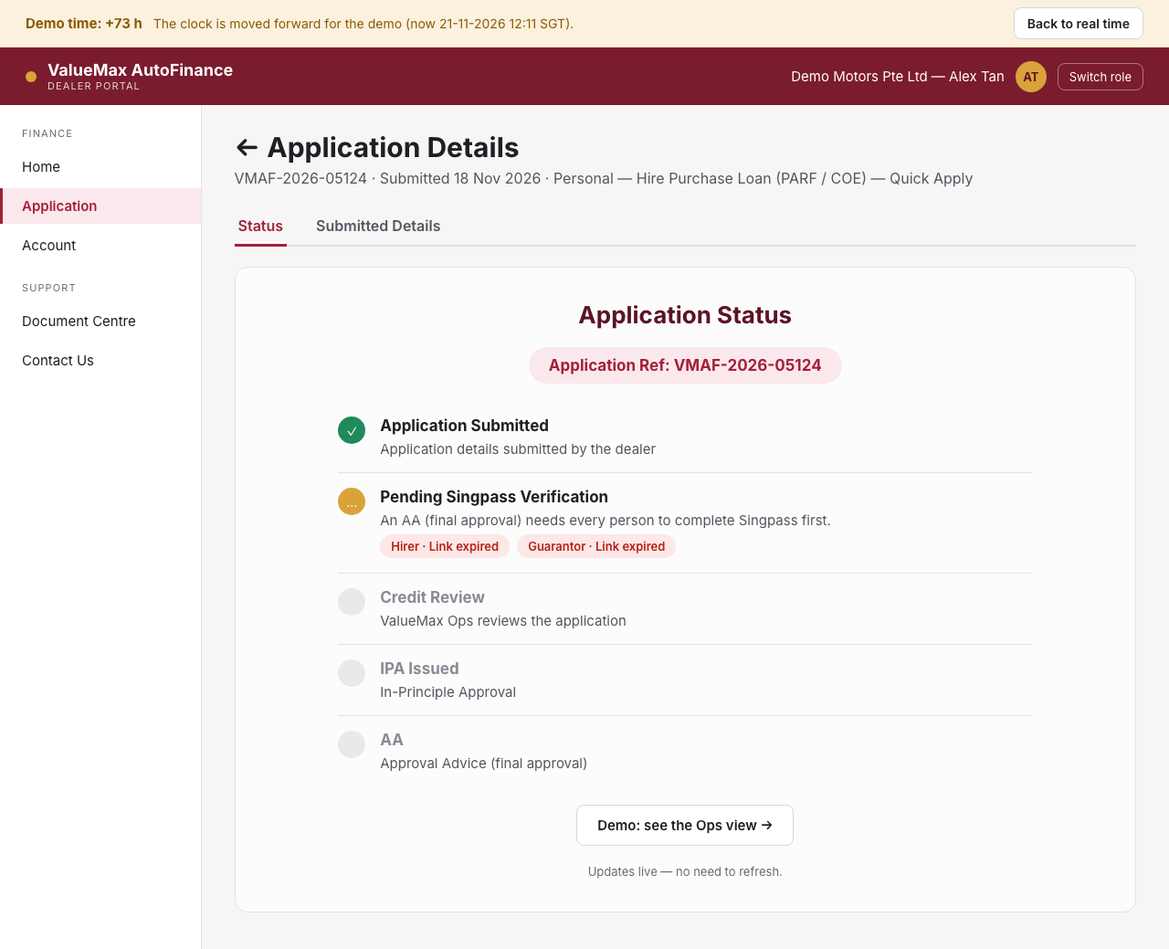
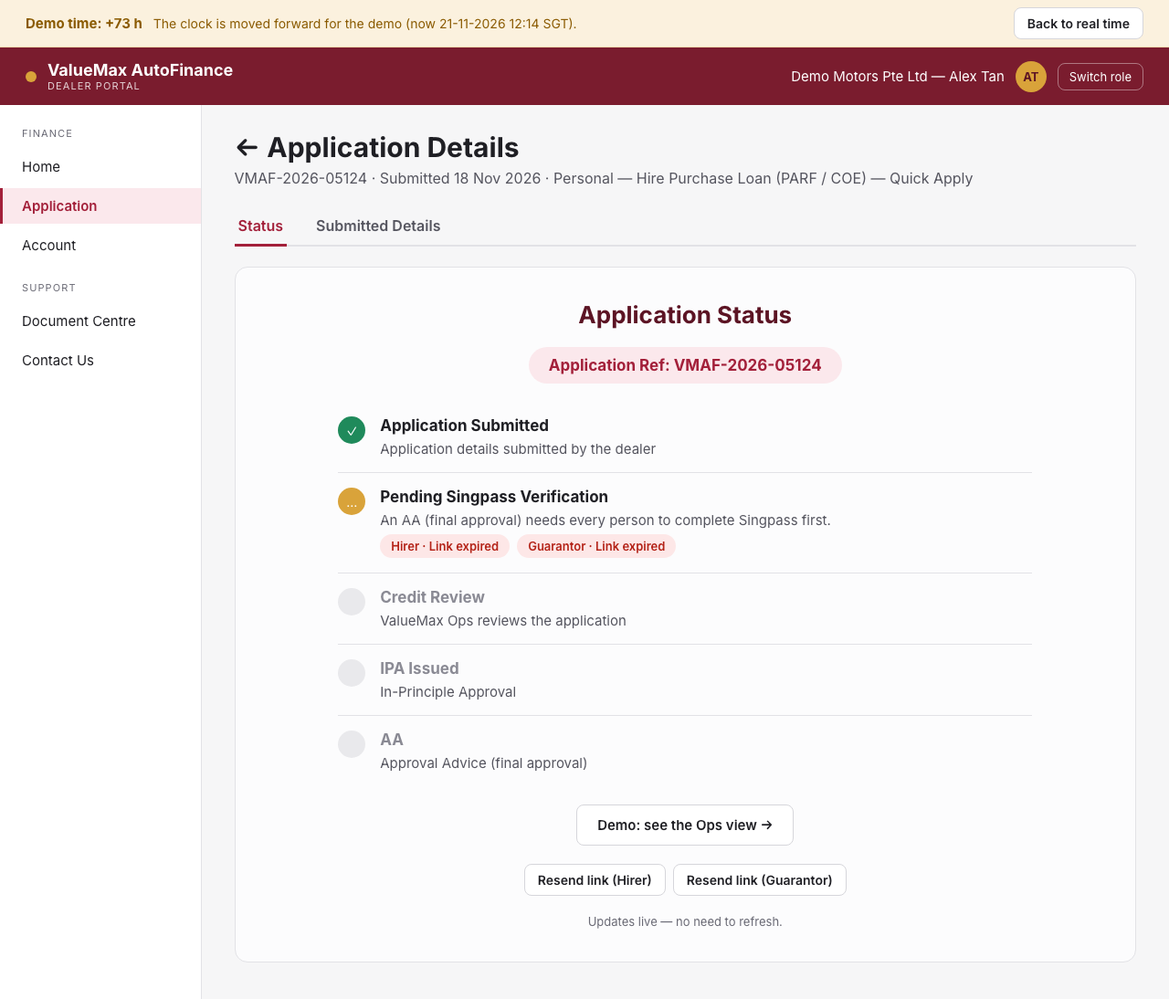
feat: step 7 — Playwright e2e of the main demo script, README for a new machine
- tests/e2e/main-flow.spec.ts (D-36): dealer submits, both links opened from the
  outbox on a phone, consent with the right personas, dealer screen updates live
  without reload, AA unlocks and is issued; playwright.config.ts starts its own
  server (:3100, own DATA_FILE, throw-away key); npm run test:e2e
- DATA_FILE setting (default data/db.json)
- Dealer status: "Resend link" for the submitting agent (D-04)
- README rewritten: new-machine setup, key generation, Chromium install behind a
  company CA, configuration, reset, phone access, 7 demo scripts (do / see /
  say), what is simulated, connecting the real gateway (B1.1, B2.2, B1.9,
  staging person API port 60201)
- Screenshots regenerated

diff --git a/tests/e2e/main-flow.spec.ts b/tests/e2e/main-flow.spec.ts
@@ -1,0 +1,81 @@
+// The main demo script (D-36): the dealer submits; both links are opened from the outbox on a phone; each person
+// consents with the right persona; the dealer and Ops screens change by themselves; the AA unlocks and is issued.
+import { expect, test } from "@playwright/test";
+import type { Page } from "@playwright/test";
+
+interface Message { channel: string; applicationRef: string; partyId: string; body: string }
+interface Party { id: string; role: string }
+
+async function signIn(page: Page, who: RegExp): Promise<void> {
+  await page.goto("/login");
+  await page.getByRole("button", { name: who }).click();
+}
+
+test("main demo: submit → open both links from the outbox → consent → statuses update live → AA unlocks", async ({ browser }) => {
+  // ---- dealer (laptop) ----
+  const dealer = await (await browser.newContext()).newPage();
+  await signIn(dealer, /Alex Tan/);
+  await dealer.request.post("/api/demo/reset");
+  await dealer.goto("/dealer/apply");
+  await dealer.getByRole("button", { name: "Fill sample (test personas)" }).click();
+  await dealer.locator('[data-f="hirer.email"]').fill("hirer@example.com");
+  await dealer.locator('[data-f="guarantor.email"]').fill("guarantor@example.com");
+  await dealer.getByRole("button", { name: /Next: Documents/ }).click();
+  const send = dealer.getByRole("button", { name: /Send Singpass Request/ });
+  await expect(send).toBeDisabled();
+  await dealer.locator("#c1").check();
+  await dealer.locator("#c2").check();
+  await send.click();
+  await expect(dealer.getByRole("heading", { name: "Interest Received" })).toBeVisible();
+  const ref = new URL(dealer.url()).pathname.split("/").pop()!;
+  await dealer.getByRole("link", { name: "View Application Status" }).click();
+  await expect(dealer.getByText("Hirer · Pending")).toBeVisible();
+  await dealer.evaluate(() => ((window as unknown as { noReload: boolean }).noReload = true));
+
+  // ---- Ops (second laptop tab): AA locked while Singpass is pending ----
+  const ops = await (await browser.newContext()).newPage();
+  await signIn(ops, /Priya Nair/);
+  await ops.goto(`/ops/applications/${ref}`);
+  await ops.selectOption("#newstatus", "AA");
+  await expect(ops.getByText("Cannot issue AA yet")).toBeVisible();
+  await expect(ops.locator("#apply")).toBeDisabled();
+
+  // ---- the two links, from the outbox ----
+  const parties = ((await (await dealer.request.get(`/api/applications/${ref}`)).json()) as { parties: Party[] }).parties;
+  const outbox = (await (await dealer.request.get("/api/demo/outbox")).json()) as Message[];
+  const linkOf = (role: string) => {
+    const party = parties.find((p) => p.role === role)!;
+    const email = outbox.find((m) => m.channel === "email" && m.applicationRef === ref && m.partyId === party.id)!;
+    return /https?:\/\/\S+/.exec(email.body)![0];
+  };
+  const sms = outbox.filter((m) => m.channel === "sms" && m.applicationRef === ref);
+  expect(sms).toHaveLength(2);
+  for (const m of sms) expect(m.body).not.toMatch(/https?:\/\//);
+
+  // ---- each person on a phone ----
+  const phone = await (await browser.newContext({ viewport: { width: 390, height: 844 }, isMobile: true })).newPage();
+  for (const [role, persona, chip] of [
+    ["hirer", "F4440488P", "Hirer · Fulfilled"],
+    ["guarantor", "G4440425M", "Guarantor · Fulfilled"],
+  ] as const) {
+    await phone.goto(linkOf(role));
+    await expect(phone.getByText("Link valid")).toBeVisible();
+    await phone.getByRole("link", { name: /Continue to Singpass/ }).click();
+    await expect(phone.getByText("SIMULATED GATEWAY")).toBeVisible();
+    await phone.getByRole("button", { name: "Retrieve Myinfo with Singpass" }).click();
+    await phone.locator(`[data-nric="${persona}"]`).click();
+    await phone.getByRole("button", { name: /I agree/ }).click();
+    await phone.getByRole("button", { name: "Submit Application" }).click();
+    await expect(phone.getByRole("heading", { name: "Details shared" })).toBeVisible();
+
+    // the dealer's screen changes by itself (auto-verify job + SSE), no reload
+    await expect(dealer.getByText(chip)).toBeVisible({ timeout: 10_000 });
+    expect(await dealer.evaluate(() => (window as unknown as { noReload?: boolean }).noReload)).toBe(true);
+  }
+
+  // ---- Ops: the AA unlocks by itself and is issued ----
+  await expect(ops.getByText("Ready to issue AA")).toBeVisible({ timeout: 10_000 });
+  await ops.locator("#apply").click();
+  await expect(ops.getByText(/AA issued by Priya Nair/)).toBeVisible();
+  await expect(dealer.getByText(/Approval Advice issued/)).toBeVisible({ timeout: 10_000 });
+});

diff --git a/public/app.js b/public/app.js
@@ -529,10 +529,14 @@ async function dealerStatus(ref) {
           ${app.ipaAt ? `<button class="btn primary" type="button" onclick="this.textContent='IPA notice is out of scope in this demo'">View IPA Notice</button>` : ""}
           <button class="btn" type="button" data-shortcut="ops-view">Demo: see the Ops view →</button>
         </div>
+        ${app.createdById === state.user.id && app.stage !== "AA" && app.parties.some((p) => ["Pending", "Expired", "NRIC mismatch", "Queued"].includes(p.status))
+          ? `<div class="row center" style="gap:8px">${app.parties.filter((p) => p.status !== "Fulfilled").map((p) => `<button class="btn sm" type="button" data-resend="${esc(p.id)}" data-label="${esc(p.label)}">Resend link (${esc(p.label)})</button>`).join("")}</div>`
+          : ""}
         <span class="small muted">Updates live — no need to refresh.</span>
       </section>`);
     bindCommon();
     bindShortcuts();
+    bindResend(ref); // D-04: the dealer agent who submitted may resend, with a reason
     prev = sig;
   };
   await load();

diff --git a/playwright.config.ts b/playwright.config.ts
@@ -1,0 +1,31 @@
+// End-to-end test of the main demo script (D-36). Starts its own server on port 3100 with its own data file,
+// a throw-away encryption key and a fast auto-verify job; never touches data/db.json or .env.
+import { randomBytes } from "node:crypto";
+import { defineConfig, devices } from "@playwright/test";
+
+const PORT = 3100;
+const BASE = `http://127.0.0.1:${PORT}`;
+
+export default defineConfig({
+  testDir: "tests/e2e",
+  timeout: 90_000,
+  fullyParallel: false,
+  workers: 1,
+  reporter: [["list"]],
+  use: { baseURL: BASE, trace: "retain-on-failure" },
+  projects: [{ name: "chromium", use: { ...devices["Desktop Chrome"] } }],
+  webServer: {
+    command: "node server/index.ts",
+    url: `${BASE}/api/config`,
+    reuseExistingServer: false,
+    timeout: 30_000,
+    env: {
+      PORT: String(PORT),
+      PUBLIC_BASE_URL: BASE,
+      MYINFO_ENCRYPTION_KEY: randomBytes(32).toString("hex"),
+      POLL_INTERVAL_MS: "500",
+      DATA_FILE: "test-results/e2e-db.json",
+      SMTP_HOST: "",
+    },
+  },
+});

diff --git a/server/index.ts b/server/index.ts
@@ -26,7 +26,7 @@ const config = loadConfig(process.env, { publicBaseUrl: `http://${lanAddress() ?
 const rt = createRuntime({
   config,
   clock: new AdjustableClock(),
-  dbFile: join(resolve(import.meta.dirname, ".."), "data", "db.json"),
+  dbFile: process.env.DATA_FILE || join(resolve(import.meta.dirname, ".."), "data", "db.json"),
   key,
   email: createEmailSender(process.env),
   smtpConfigured: Boolean(process.env.SMTP_HOST),

diff --git a/README.md b/README.md
@@ -1,82 +1,202 @@
 # ValueMax AutoFinance — Singpass Myinfo Auto Verify (demo)
 
-Demo of the Dealer Portal flow from `docs/requirements/singpass-demo-brief.md`: the dealer submits an application on
-the laptop, the hirer and guarantor each get a link by email, log in and consent to share Myinfo on their phone through
-a **simulated ValueMax Myinfo gateway** (labelled "SIMULATED"), and the dealer and Ops screens switch to **Fulfilled**
-live (Server-Sent Events, no refresh).
+Presale demo of the Dealer Portal "auto verify" flow for ValueMax AutoFinance. The dealer submits an application on a
+laptop; the hirer and up to two guarantors each get their own link by email (plus an SMS notice); each person opens the
+link on their phone, goes through a **simulated** ValueMax Myinfo gateway (Singpass login, consent, review) and shares
+their data; AutoFinance picks the data up by **polling** the gateway, checks the NRIC, and the dealer and Ops screens
+switch to **Fulfilled** by themselves. The AA is locked on the server until every person is Fulfilled.
 
-The real ValueMax gateway (`myinfo-stg.valuemax.com.sg`) is not wired: its API spec (GetToken, GetLinkId,
-person/autofin/{LinkId}) is still pending (Q&A B1.1). `server/gateway/valuemax.ts` is a stub with TODOs.
+Requirements: `docs/requirements/singpass-demo-brief.md`; decisions: `docs/requirements/decisions.md` (D-01 … D-51);
+gap report and plan: `docs/claude-code-demo/GAP_REPORT.md`; screenshots: `docs/claude-code-demo/screens/`.
 
-> Work in progress: everything runs end to end, but the UI is not yet pixel-matched to `docs/claude-code-demo/design/`.
+## 1. Run it on a new machine
 
-## Run
-
-Requires Node.js ≥ 22.18 (runs the TypeScript directly, no build step).
+Requires **Node.js ≥ 22.18** (the TypeScript runs directly, no build step) and npm. Nothing else for the demo itself.
 
 ```bash
-npm install
-npm run dev          # creates .env on first run (with a fresh MYINFO_ENCRYPTION_KEY), then starts on :3000
+git clone <repo-url> singpass-demo && cd singpass-demo
+git checkout singpass-2
+npm ci
+cp .env.example .env
+# put a fresh 256-bit key (64 hex characters) into MYINFO_ENCRYPTION_KEY in .env:
+node -e "console.log(require('crypto').randomBytes(32).toString('hex'))"
+#   (or: openssl rand -hex 32)
+npm start                     # or: npm run dev (restarts on code changes)
 ```
 
-- Laptop: http://localhost:3000. Pick **Alex Tan (dealer)** or **Priya Nair (Ops)** — "Switch role" in the header.
-- Demo Control: http://localhost:3000/demo (reset data, sample applications, expire a link, outbox, QR codes).
-- Tests: `npm test` · lint: `npm run lint` · type-check: `npm run typecheck`.
+Shortcut: `npm run setup` creates `.env` from `.env.example` with a new key if `.env` does not exist yet; `npm start`
+and `npm run dev` run it first. The server refuses to start without a valid key (D-03) and says why.
 
-### Email
+Then open:
 
-| Option | `.env` |
+| URL | What |
 | --- | --- |
-| No SMTP (default) | leave `SMTP_HOST` empty: links are printed in the server log and listed in Demo Control → Outbox |
-| Mailpit (local inbox) | `docker compose up -d mailpit`, then `SMTP_HOST=localhost`, `SMTP_PORT=1025`; inbox at http://localhost:8025 |
-| Real mailbox (Gmail) | `SMTP_HOST=smtp.gmail.com`, `SMTP_PORT=465`, `SMTP_SECURE=true`, `SMTP_USER=you@gmail.com`, `SMTP_PASS=<app password>` |
+| http://localhost:3000 | sign in as **Alex Tan — Demo Motors** (dealer) or **Priya Nair — VMAF Ops**; "Switch role" in the header |
+| http://localhost:3000/demo | **Demo Control** (presenter): reset, sample applications, gateway on/off, run job now, clock, outbox, gateway log |
+| printed at start-up | "Phone links" base URL — what the emails contain (see §4) |
 
-### Letting a phone open the link
+### Tests
 
-The link in the email uses `PUBLIC_BASE_URL`.
+```bash
+npm test             # service + HTTP tests (node:test)
+npm run lint         # ESLint
+npm run typecheck    # tsc --noEmit
+# end-to-end (Playwright, one test of the main demo script, D-36) — install Chromium once:
+npx playwright install chromium
+#   on a machine behind a company proxy with its own root CA ("unable to verify the first certificate"):
+NODE_OPTIONS=--use-system-ca npx playwright install chromium
+npm run test:e2e     # starts its own server on :3100 with its own data file; does not touch data/db.json or .env
+npm run screens      # regenerates docs/claude-code-demo/screens/*.png (needs Chromium too)
+```
 
-- **Same Wi-Fi**: leave it empty — the server prints the detected LAN address (`http://192.168.x.x:3000`).
-  Allow incoming connections for Node in the macOS firewall if asked.
-- **Tunnel** (any network): `cloudflared tunnel --url http://localhost:3000` (or `ngrok http 3000`), then set
-  `PUBLIC_BASE_URL=https://<the-tunnel-host>` in `.env` and restart.
-- Fallback: screen 3 ("Show QR of the link") and Demo Control show a QR code of each link.
+## 2. Configuration (`.env`)
 
-## Demo script (~5 minutes)
+| Variable | Default | Meaning |
+| --- | --- | --- |
+| `MYINFO_ENCRYPTION_KEY` | — (required) | AES-256-GCM key for stored Myinfo data, 64 hex characters (D-03) |
+| `PORT` | 3000 | listens on 0.0.0.0 so phones on the same network can reach it |
+| `PUBLIC_BASE_URL` | LAN address | base URL put in emails and used for the gateway pages; must be reachable from the phone |
+| `LINK_TTL_HOURS` | 72 | link validity, counted from the moment the link is sent (D-24) |
+| `POLL_INTERVAL_MS` | 2000 | how often the auto-verify job polls the gateway (D-01) |
+| `RESEND_LIMIT` / `RESEND_WINDOW_HOURS` | 3 / 24 | resends per person in a sliding window (D-39) |
+| `MYINFO_SHOW_REVIEW` | true | the simulated gateway shows the review screen before "Submit Application" (D-31) |
+| `DATA_FILE` | `data/db.json` | where the demo data is kept |
+| `SMTP_HOST`, `SMTP_PORT`, `SMTP_SECURE`, `SMTP_USER`, `SMTP_PASS`, `MAIL_FROM` | empty | real email; see below |
 
-1. Demo Control → **Reset all data**, then **Create sample applications** (fills the Ops list).
-2. Laptop, as **Alex Tan**: Quick Apply → **Fill sample (test personas)** → type the email address of the phone for
-   hirer and guarantor → Next → tick both confirmations → **Send Singpass Request**. Screen 3 shows the reference and
-   link expiry; open **View Application Status** and leave it on screen.
-3. Phone: open the email → **Verify with Singpass** → **Retrieve Myinfo with Singpass** → simulated Singpass: pick
-   **HENG SHI ZHENG (F4440488P)** → **I agree** → review tabs → **Submit Application** → "Details shared".
-   The laptop's hirer chip turns **Fulfilled** within a second.
-4. Second tab as **Priya Nair** (Ops): All Applications shows hirer Fulfilled, guarantor Pending. Open it:
-   Change Status → **Issue AA** shows "Cannot issue AA yet"; **Issue IPA** works while Singpass is pending.
-5. Guarantor link on the phone → persona **G4440425M** → I agree → Submit Application. Both Fulfilled → Issue AA is enabled.
-6. Error cases (Demo Control lists them):
-   - **NRIC mismatch**: log in with a different persona than the NRIC the dealer entered → red on Ops.
-   - **Cancel**: press **Cancel** on the consent screen.
-   - **Old link after Resend**: Ops → **Resend Email**, then open the previous link → "This link is no longer valid".
-   - **Expired link**: Demo Control → **Make link expired**, then open the link.
+**Email.** Without `SMTP_HOST` emails are not sent: each link is printed in the server log and listed in Demo Control →
+Outbox (enough for a demo on one laptop). Local inbox: `docker compose up -d mailpit`, then `SMTP_HOST=localhost`,
+`SMTP_PORT=1025`, inbox at http://localhost:8025. Real mailbox (Gmail): `SMTP_HOST=smtp.gmail.com`, `SMTP_PORT=465`,
+`SMTP_SECURE=true`, `SMTP_USER=you@gmail.com`, `SMTP_PASS=<app password>`, `MAIL_FROM=you@gmail.com`.
+SMS is never sent: the SMS notice ("we have emailed you…", no link) appears only in the outbox (D-13).
 
-Test personas: `F4440488P`, `F4440489M`, `G4440425M`, `G4440427W`, `G4440430W`,
-`G4440431T`, `G4440432Q`, `G4440433N`, `M5004553J`. Any other valid NRIC also logs in with generic test data.
+## 3. Reset the data
 
-## Structure
+Demo Control → **Reset all data** hard-deletes every application, link, Myinfo record, message and audit event, clears
+the simulated gateway and puts the clock back to real time (D-02). **Create sample applications** adds
+`VMAF-2026-05114` … `05119` (test personas only, D-29). Stopping the server and deleting `data/db.json` does the same
+as a reset.
+
+## 4. Let a phone open the links
+
+- **Same Wi-Fi:** leave `PUBLIC_BASE_URL` empty; the server prints the LAN address it uses (`http://192.168.x.x:3000`).
+  Allow incoming connections for Node if the macOS firewall asks.
+- **Any network (tunnel):** `cloudflared tunnel --url http://localhost:3000` (or `ngrok http 3000`), set
+  `PUBLIC_BASE_URL=https://<tunnel-host>` in `.env`, restart.
+- **Fallback:** Demo Control → Links → "QR (presenter only)" shows a QR of any link.
+
+## 5. Demo scripts
+
+Before each script: Demo Control → **Reset all data** → **Create sample applications**. Keep two laptop windows: the
+dealer (Alex Tan) and Ops (Priya Nair, private window). "Phone" = a real phone, or a narrow browser window opening the
+link from Demo Control → Outbox. Personas on the simulated Singpass login: `F4440488P` HENG SHI ZHENG (hirer of "Fill
+sample"), `G4440425M` RAJESH KUMAR (its guarantor) and 7 others.
+
+### 5.1 Happy path (~3 min)
+
+| Do | See | Say |
+| --- | --- | --- |
+| Dealer: Quick Apply → **Fill sample** → type the phone's email for hirer and guarantor → Next → tick both boxes → **Send Singpass Request** | "Interest Received", one link per person, expiry in 72 h | "Each person gets their own link, valid 72 hours; only one link per person is active." |
+| Dealer: **View Application Status** | tracker, both chips "Pending" | "The dealer can now leave this screen open." |
+| Phone: open the hirer's email (or Outbox link) → **Continue to Singpass** | AutoFinance first checks the link, then the grey "SIMULATED GATEWAY" pages | "The link opens our portal first: an old or expired link stops here." |
+| Phone: **Retrieve Myinfo with Singpass** → pick **HENG SHI ZHENG** → **I agree** → review tabs → **Submit Application** | "Details shared"; no redirect back | "Like the real ValueMax gateway, it does not send the customer back." |
+| Watch the dealer screen | Hirer chip turns **Fulfilled** within ~2 s, no refresh | "There is no webhook: AutoFinance polls the gateway every 2 seconds, checks the NRIC, stores the data encrypted, and pushes the change to the screens." |
+| Phone: guarantor link → **RAJESH KUMAR** → I agree → Submit | Guarantor **Fulfilled** | |
+| Ops: All Applications → View → Change Status → **Issue AA** → Apply | "Ready to issue AA", then "Approved — AA"; the dealer tracker shows AA | "The AA is locked on the server until everyone is Fulfilled." |
+
+### 5.2 IPA before AA
+
+| Do | See | Say |
+| --- | --- | --- |
+| Submit an application (as in 5.1), nobody verifies yet. Ops → View → **Issue IPA** → Apply | "Approved — IPA" | "An IPA can be issued any time after submission." |
+| Ops: choose **Issue AA** | red box "Cannot issue AA yet ✗ Hirer Singpass pending ✗ Guarantor …", Apply disabled | "The reason comes from the server's own check; an AA attempt that bypasses the screen is refused and audited." |
+| Verify both people (5.1) | the box turns "Ready to issue AA" by itself → Apply | |
+
+### 5.3 Wrong person (NRIC mismatch)
+
+| Do | See | Say |
+| --- | --- | --- |
+| Submit; on the phone, for the hirer, log in as **WANG XIAO LING** (not HENG) → I agree → Submit | Phone: "Details shared". Dealer: "NRIC mismatch — Ops is following up". Ops: red "NRIC mismatch · logged in as F****489M" | "The data came from someone else's Singpass: it is not attached, only the returned NRIC is kept for Ops, masked. The dealer never sees it." |
+| Ops: **Show** next to the NRIC; Activity log | full NRIC; "Priya Nair viewed the full NRIC…" | "Viewing a full NRIC is recorded." |
+| Ops: **Correct NRIC / email** (reason) or **Resend Email** (reason) | new link, person back to Pending | "A correction issues a new link; the old one stops working." |
+
+### 5.4 Old link (blocked at the portal, data on the old LinkId rejected)
+
+| Do | See | Say |
+| --- | --- | --- |
+| Submit. Phone: open the hirer link → **Continue to Singpass** → leave this tab open on the gateway page | gateway landing page | |
+| Ops: **Resend Email (Hirer)** with a reason | new email in Outbox | "Resend replaces the link: one active link per person." |
+| Phone, new tab: open the **first** email's link again | "This link is no longer valid" | "The portal stops an old link before it reaches Singpass." |
+| Phone, the gateway tab left open: Retrieve → HENG → I agree → Submit | "Details shared" (the real gateway cannot cancel a link) | |
+| Ops: Activity | "Result rejected: the customer used an old link (returned NRIC F****488P, matches)"; hirer still Pending | "Data that arrives on an old link is never attached; the new link is still the one that counts." |
+
+### 5.5 Expired link and resend from the expired list
+
+| Do | See | Say |
+| --- | --- | --- |
+| Submit. Demo Control → **+73 h (expire links)** | "Demo time: +73 h" bar; within ~2 s both people **Expired** | "After 72 hours without a result, the link expires." |
+| Phone: open the link | "This link is no longer valid" | |
+| Ops: All Applications → **Expired links (2)** → **Resend link** (reason) | new link in Outbox; the person leaves the list | "Ops (or the dealer who submitted) can resend, with a reason, at most 3 times in 24 hours." |
+| Demo Control → **Back to real time** | the bar disappears | |
+
+### 5.6 Gateway outage and recovery without duplicates
+
+| Do | See | Say |
+| --- | --- | --- |
+| Demo Control → **Switch gateway off** | gateway "unavailable" | |
+| Dealer submits | "Interest Received" with "queued — sent automatically once the Singpass gateway is reachable"; Ops: "Queued"; no email in Outbox | "The application is never lost: the link request is queued." |
+| Demo Control → **Switch gateway on** | within ~2 s each person gets exactly one email + one SMS notice; expiry counts from now | "The job retries; it is safe to run twice or in parallel and never sends a link twice." |
+
+### 5.7 Customer declines consent
+
+| Do | See | Say |
+| --- | --- | --- |
+| Phone: open a link → Retrieve → persona → **Cancel** | "You cancelled" | |
+| Dealer / Ops | still **Pending**, nothing changes | "The real gateway does not tell us about a refusal, so AutoFinance cannot tell it from 'not done yet'." |
+| Demo Control → Gateway log | "declined" recorded on the gateway side | "The link stays valid until it expires; the customer can open it again and agree." |
+
+## 6. What is simulated
+
+- **The ValueMax Myinfo gateway and Singpass** (`server/gateway/simulated.ts`, pages under `/gateway/<LinkId>`):
+  GetToken, GetLinkId and person/autofin/{LinkId} behaviour, Singpass login with the 9 staging test personas (no
+  passwords), consent, review. Myinfo data of the personas is synthetic (`server/personas.ts`). Every page carries
+  "SIMULATED GATEWAY · DEMO ONLY".
+- **SMS**: outbox only. **Email**: real only when SMTP is configured.
+- **Users**: two sample users and a role switch, no passwords (D-08). **IPA / AA**: only the stage changes; no notice
+  contents, no IPA amendment (D-48). **LTA**: the access code is captured only; no LTA or OneMotoring lookup (D-51).
+- **Clock**: Demo Control can move it forward (D-42). **Data**: one JSON file (D-37).
+
+## 7. Connecting the real ValueMax gateway
+
+AutoFinance reaches the gateway only through `GatewayAdapter` (`server/gateway/adapter.ts`: `issueLink`,
+`fetchPerson`, `GatewayUnavailable`). The real one goes in `server/gateway/valuemax.ts` (`ValueMaxGatewayAdapter`, a stub
+with TODOs; it is never called today). Open items before it can be written:
+
+| Item | Needed from ValueMax | Status |
+| --- | --- | --- |
+| **B1.1** API specification of GetToken, GetLinkId, person/autofin/{LinkId} (request / response fields, "not ready yet" response, errors, token lifetime) | spec | pending |
+| **B2.2** staging credentials (client id / secret) for AutoFinance | credentials | pending |
+| **B1.9** IP whitelist of the AutoFinance servers on the gateway | whitelisting | pending |
+| Staging **person** API (`myinfo-api-stg.valuemax.com.sg/person/autofin/{LinkId}`) | fix | currently fails with a port 60201 error |
+
+Then: implement the two adapter methods (map outages and timeouts to `GatewayUnavailable`, "no consent yet" to
+`NOT_READY`, the payload to `MyinfoPerson` with at least `uinfin`); add its settings to `.env.example` (endpoints,
+credentials — secrets only from the environment); construct it instead of `MockGatewayAdapter` in
+`server/runtime.ts`; run `npm test` (the SC-xx tests run against the adapter interface). Reference endpoints:
+`myinfo-stg.valuemax.com.sg/Utilities/AutoFin/GetToken`, `/GetLinkId`, `myinfo-api-stg.valuemax.com.sg/person/autofin/{LinkId}`.
+
+## 8. Structure
 
 ```
 server/index.ts              entry point: environment → runtime
 server/runtime.ts            HTTP API, SSE (/api/events), auto-verify job timer, Demo Control, static files
-server/verification/         service.ts (links, job, Retrieve MyInfo, resend), model.ts, db.ts (JSON file), users.ts
-server/gateway/              adapter.ts (issueLink / fetchPerson / GatewayUnavailable), simulated.ts (simulated
-                             gateway + MockGatewayAdapter), valuemax.ts (stub for the real gateway)
-server/views.ts              what dealer / Ops screens receive (labels D-25, D-38)
-server/nric.ts, crypto.ts    NRIC / FIN checks and masking; AES-256-GCM for stored Myinfo data
+server/verification/         service.ts (links, job, Retrieve MyInfo, resend, corrections, IPA / AA, demo shortcuts),
+                             approval.ts (AA conditions), model.ts, db.ts (JSON file), users.ts
+server/gateway/              adapter.ts, simulated.ts (simulated gateway + MockGatewayAdapter), valuemax.ts (stub)
+server/views.ts, activity.ts what dealer / Ops screens receive; the activity log sentences
+server/nric.ts, crypto.ts    NRIC / FIN checks and masking; AES-256-GCM
 server/mail.ts               email template + SMTP sender
 public/                      frontend (vanilla JS SPA): dealer, Ops, portal /verify/<token>, gateway /gateway/<LinkId>,
                              Demo Control
-tests/                       SC-xx scenario tests (service + HTTP), validation tests
-data/db.json                 demo data (git-ignored); Demo Control → Reset deletes it all
+tests/                       SC-xx scenario tests (service + HTTP), validation, startup; tests/e2e (Playwright)
+scripts/                     setup.ts (.env with a new key), screenshots.ts
 ```
-
-Decisions behind the rules: `docs/requirements/decisions.md` (D-01 … D-32).
